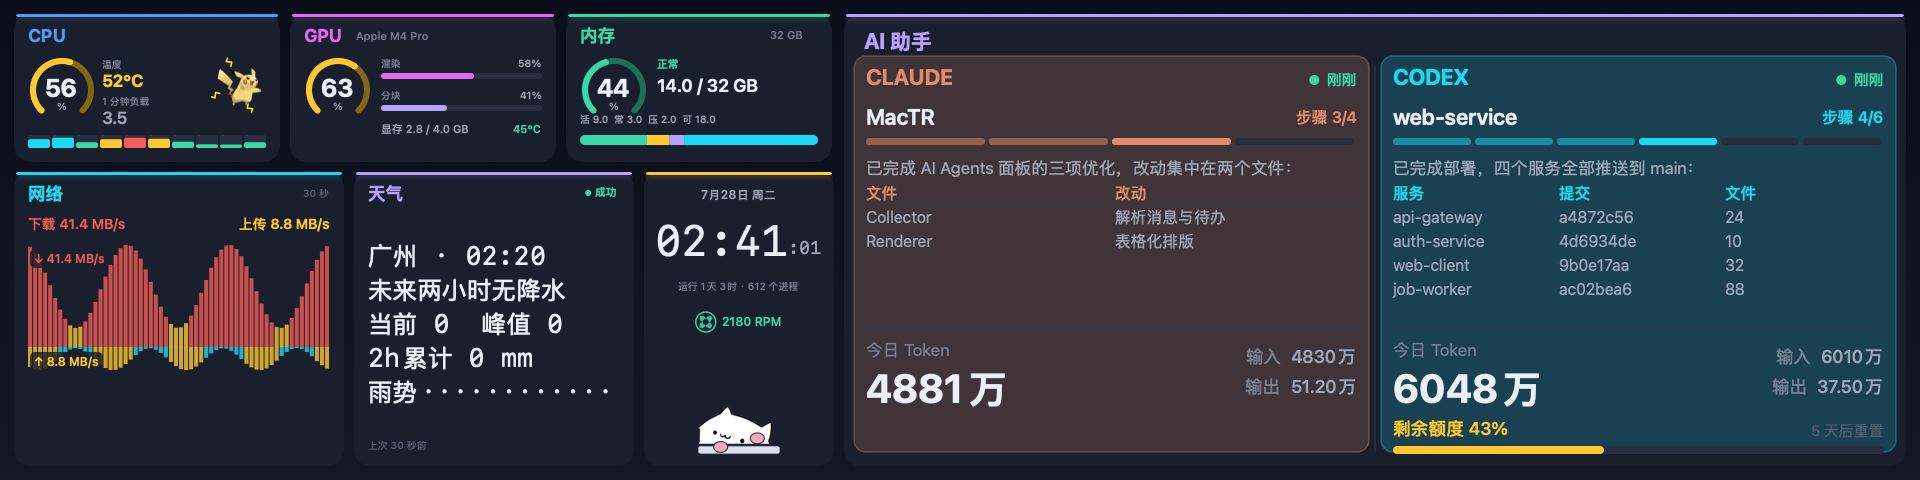
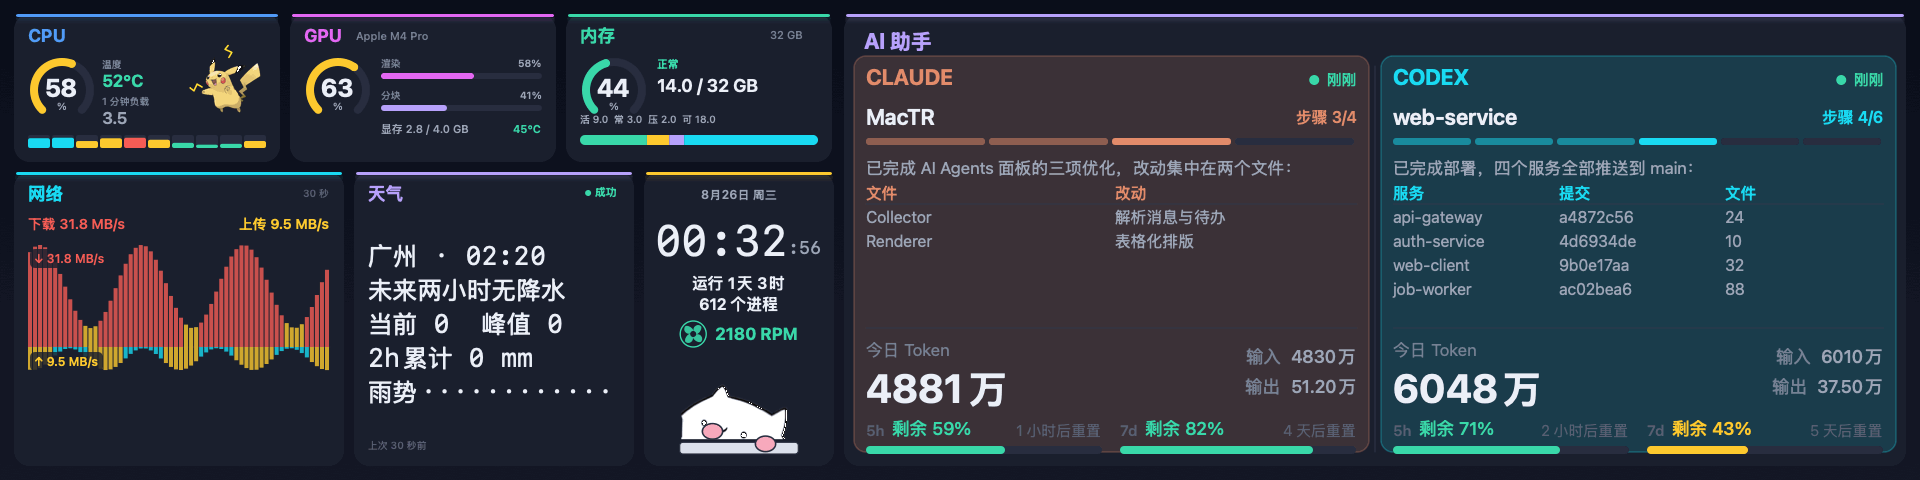
docs: reflect Codex's two quota windows in demo data and README
The demo/documentation fixtures and README screenshots predated this
PR (and the previous one) and still showed Codex with a single 7-day
window plus the old, tiny uptime/process/fan text. Added a 5-hour
window to both demo datasets and regenerated img/dashboard.png and
img/dashboard.gif from the current renderer (same params as before:
48 frames/12fps for the GIF, a single 1920x480 frame for the PNG).
Updated both READMEs' quota descriptions to say Codex shows 5h/7d
side by side too, and that which rate_limits key reports which
duration can move with what's active on the account.

Claude-Session: https://claude.ai/code/session_0139ok3JvSdXSuc6XXfe23jF

diff --git a/Sources/MacTR/Rendering/MonitorRenderer+DemoData.swift b/Sources/MacTR/Rendering/MonitorRenderer+DemoData.swift
@@ -42,6 +42,8 @@ extension MonitorRenderer {
                 project: "dashboard",
                 activity: codexActivity,
                 quotaWindows: [
+                    QuotaWindow(label: "5h", usedPercent: 18,
+                                resetsAt: Date().addingTimeInterval(2 * 3600)),
                     QuotaWindow(label: "7d", usedPercent: 34,
                                 resetsAt: Date().addingTimeInterval(6 * 86400)),
                 ],
@@ -169,6 +171,9 @@ extension MonitorRenderer {
                               secondsSinceActive: 6, project: "web-service",
                               activity: codexActivity,
                               quotaWindows: [
+                                  QuotaWindow(
+                                      label: "5h", usedPercent: 29,
+                                      resetsAt: Date().addingTimeInterval(3600 * 3)),
                                   QuotaWindow(
                                       label: "7d", usedPercent: 57,
                                       resetsAt: Date().addingTimeInterval(3600 * 24 * 6)),

diff --git a/README.en.md b/README.en.md
@@ -35,9 +35,9 @@ for each agent, side by side:
 - **Today's token usage** — total + In/Out, using compact `万 / 亿` in Chinese and
   K / M / B in English. Whether context re-read from the prompt cache counts toward the
   total is your choice (see below).
-- **Remaining quota** — % left + reset countdown. Codex comes straight from `rate_limits`
-  in its session logs; Claude shows its 5-hour and 7-day windows side by side, from the
-  one network request described below.
+- **Remaining quota** — % left + reset countdown, with the 5-hour and 7-day windows shown
+  side by side. Codex comes straight from `rate_limits` in its session logs; Claude's
+  comes from the one network request described below.
 - **Live status** — the column **breathes** while an agent is working and **flashes** for
   ~10 s when it finishes a turn or needs your input.
 
@@ -316,8 +316,10 @@ unmarked — an unbadged card means exactly what it did before this setting exis
 
 ### Claude quota: the one network request
 
-Codex writes `rate_limits.primary` (percent used + reset time) into **every** rollout
-line, so MacTR gets its quota for free. Claude Code persists no such thing anywhere on
+Codex writes `rate_limits.primary`/`secondary` (percent used + reset time — usually the
+5-hour and 7-day windows respectively, though which key reports which duration moves with
+whatever caps are currently active on the account) into **every** rollout line, so MacTR
+gets its quota for free. Claude Code persists no such thing anywhere on
 disk — not in `~/.claude/projects`, `stats-cache.json` or `sessions/`. The only source is
 an authenticated `GET https://api.anthropic.com/api/oauth/usage`.
 
